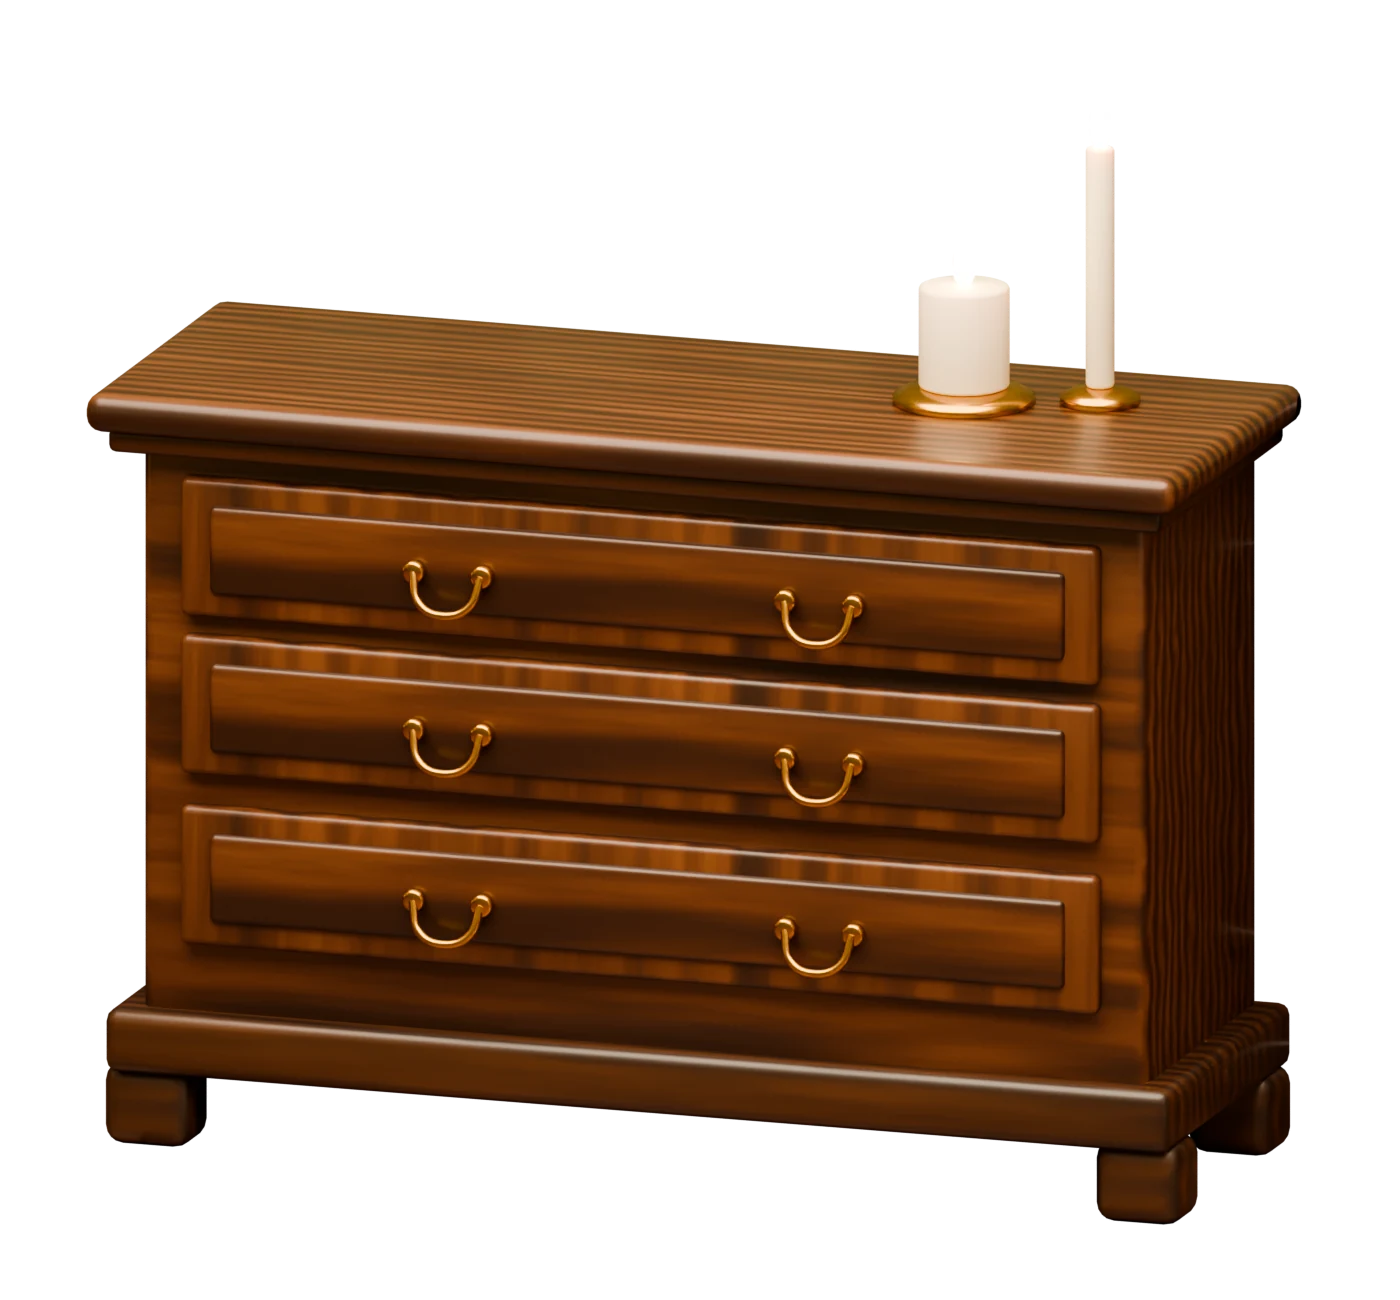
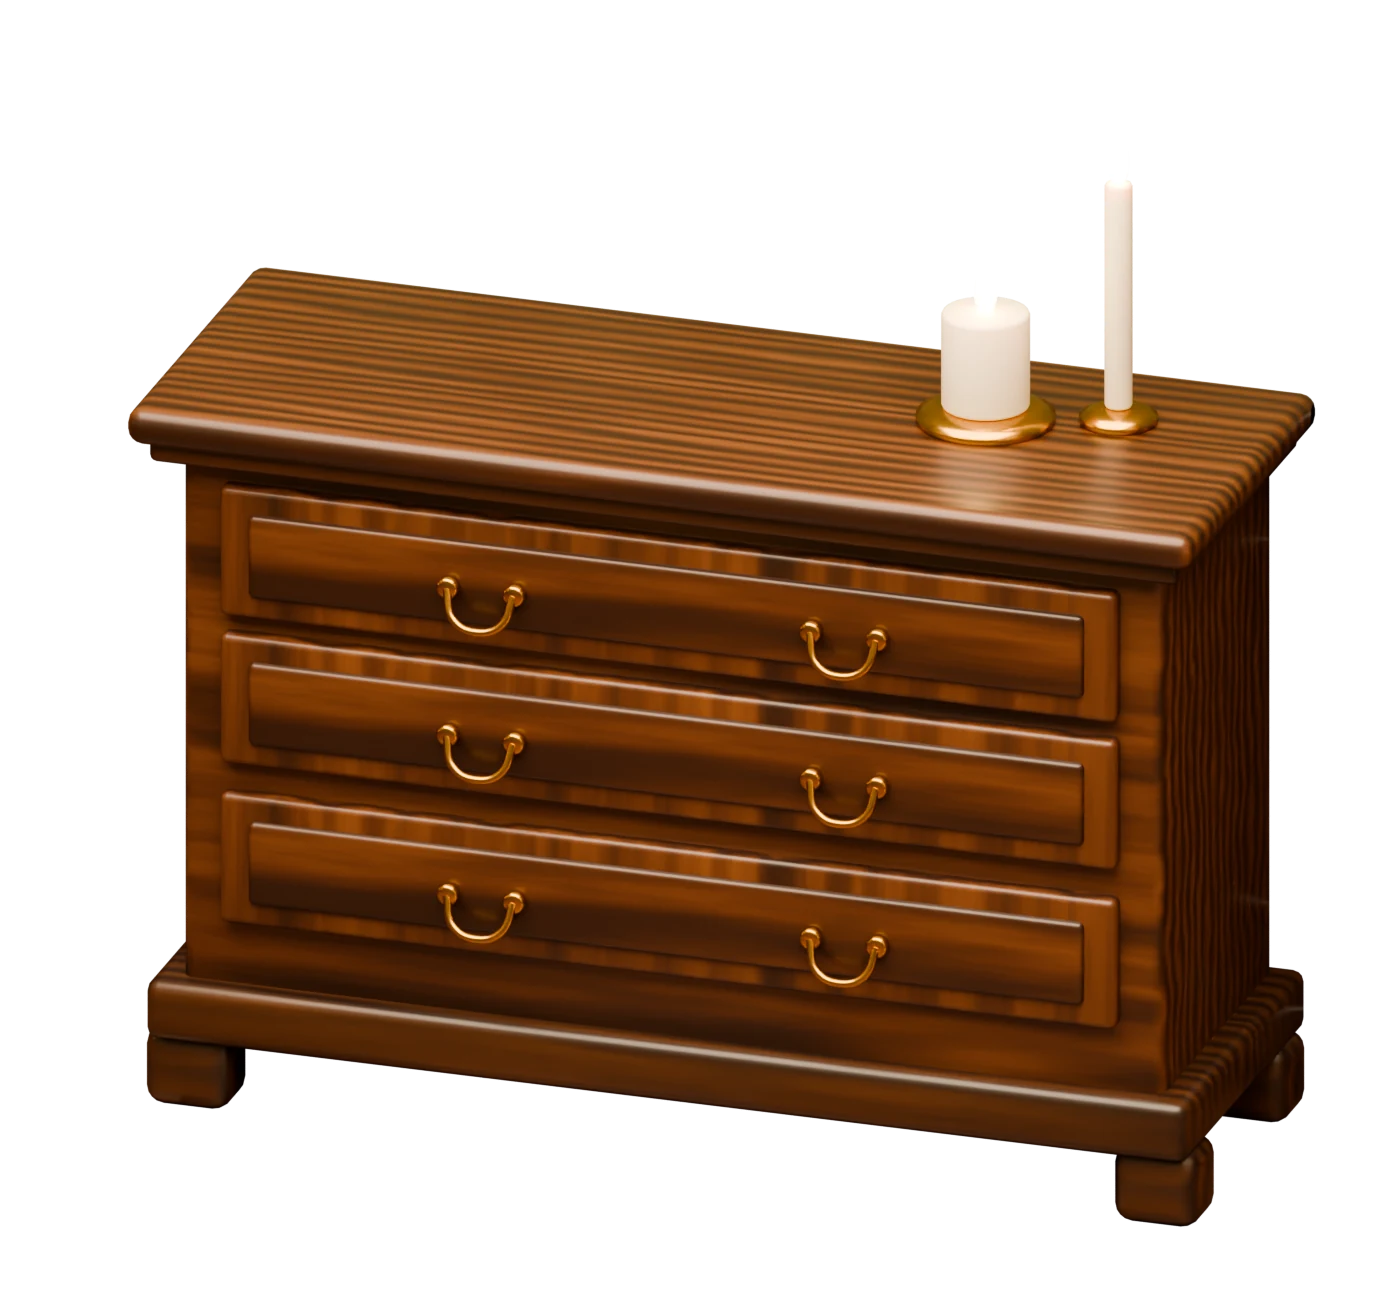
Fix the doubled candles on the chest and let the back button scroll away everywhere
The closed chest is re-rendered with the same camera as the open-drawer
shots, so the crossfade no longer shows two sets of candles.

Claude-Session: https://claude.ai/code/session_01EM2od2Nae2Smdm9kajjCWw

Changed region(s): [[0.0614, 0.0923, 0.9521, 0.9538]]

diff --git a/index.html b/index.html
@@ -83,8 +83,8 @@
   .cu-bar { position: absolute; z-index: 44; top: calc(env(safe-area-inset-top, 0px) + 30px); align-items: flex-start; left: max(16px, env(safe-area-inset-left, 0px)); right: max(16px, env(safe-area-inset-right, 0px)); display: flex; justify-content: space-between; align-items: center; gap: 12px; pointer-events: none; }
   .cu-bar > * { pointer-events: auto; }
   .cu-title { margin: 0; max-width: calc(100% - 220px); padding: 0.3em 0.2em 0.05em 0.25em; font: 400 clamp(2rem, 4.4vw, 3.4rem)/1.1 var(--display); color: #f6ead2; text-shadow: 0 3px 14px rgba(0, 0, 0, 0.55); }
-  /* the button's middle lines up with the middle of the section title beside it; on wider screens it scrolls away with the title, on phones it stays pinned */
-  @media (min-width: 861px) { .cu-close { position: absolute !important; } }
+  /* the button's middle lines up with the middle of the section title beside it; it scrolls away with the title on every screen */
+  .cu-close { position: absolute !important; }
   .cu-close { position: fixed; z-index: 45; top: var(--bt, calc(env(safe-area-inset-top, 0px) + 8px + clamp(2rem, 4.4vw, 3.4rem) * 0.9)); right: max(16px, env(safe-area-inset-right, 0px)); background: #f6ecd6; color: #2b1e16; border-color: #2b1e16; }
   .sheet { position: relative; z-index: 41; margin: 0 auto; width: min(1400px, 100%); }
   .shelf-back { position: fixed; z-index: 44; top: calc(var(--bt, 60px) + 60px); right: max(16px, env(safe-area-inset-right, 0px)); background: #2b1e16; color: #f6ecd6; border-color: #f6ecd6; }
